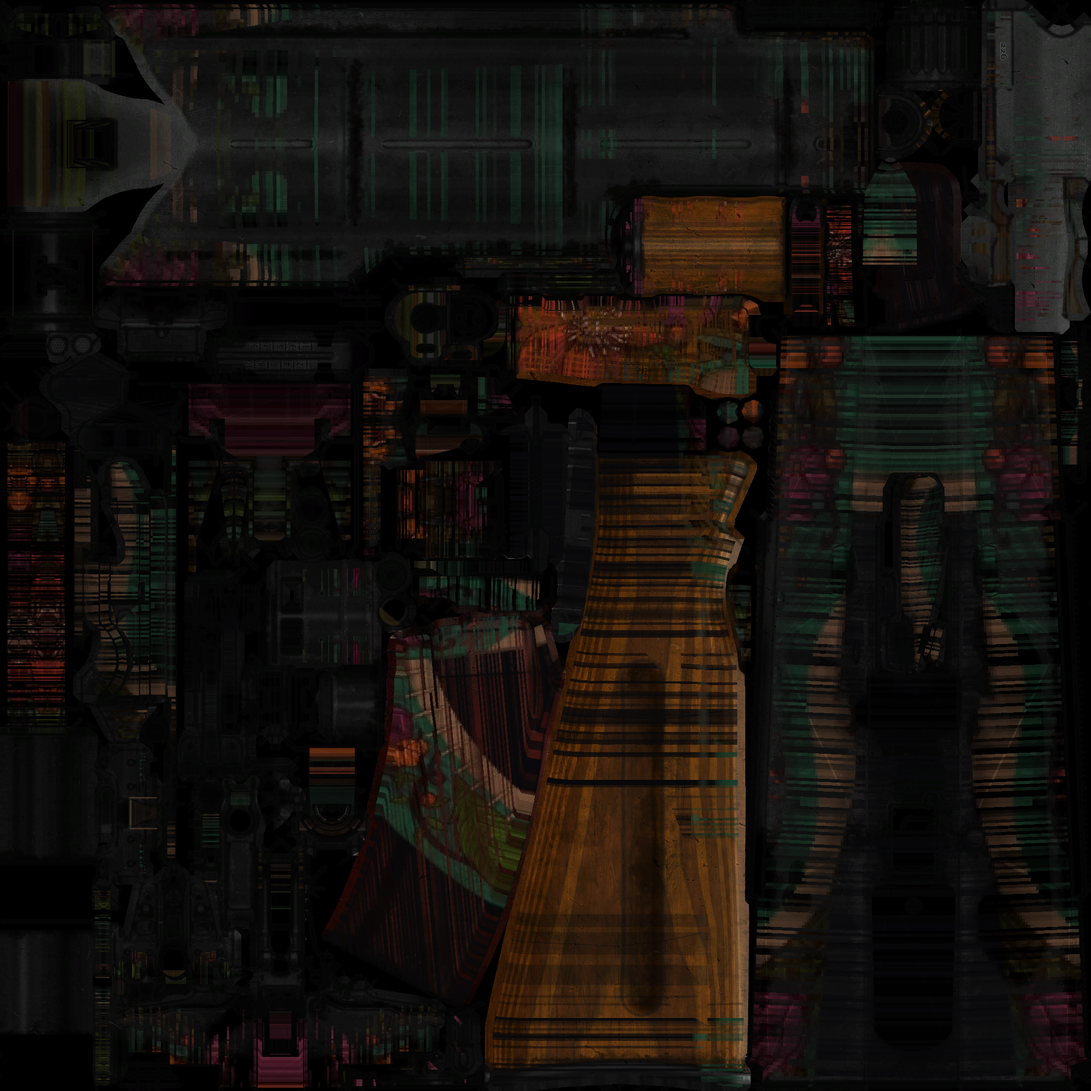
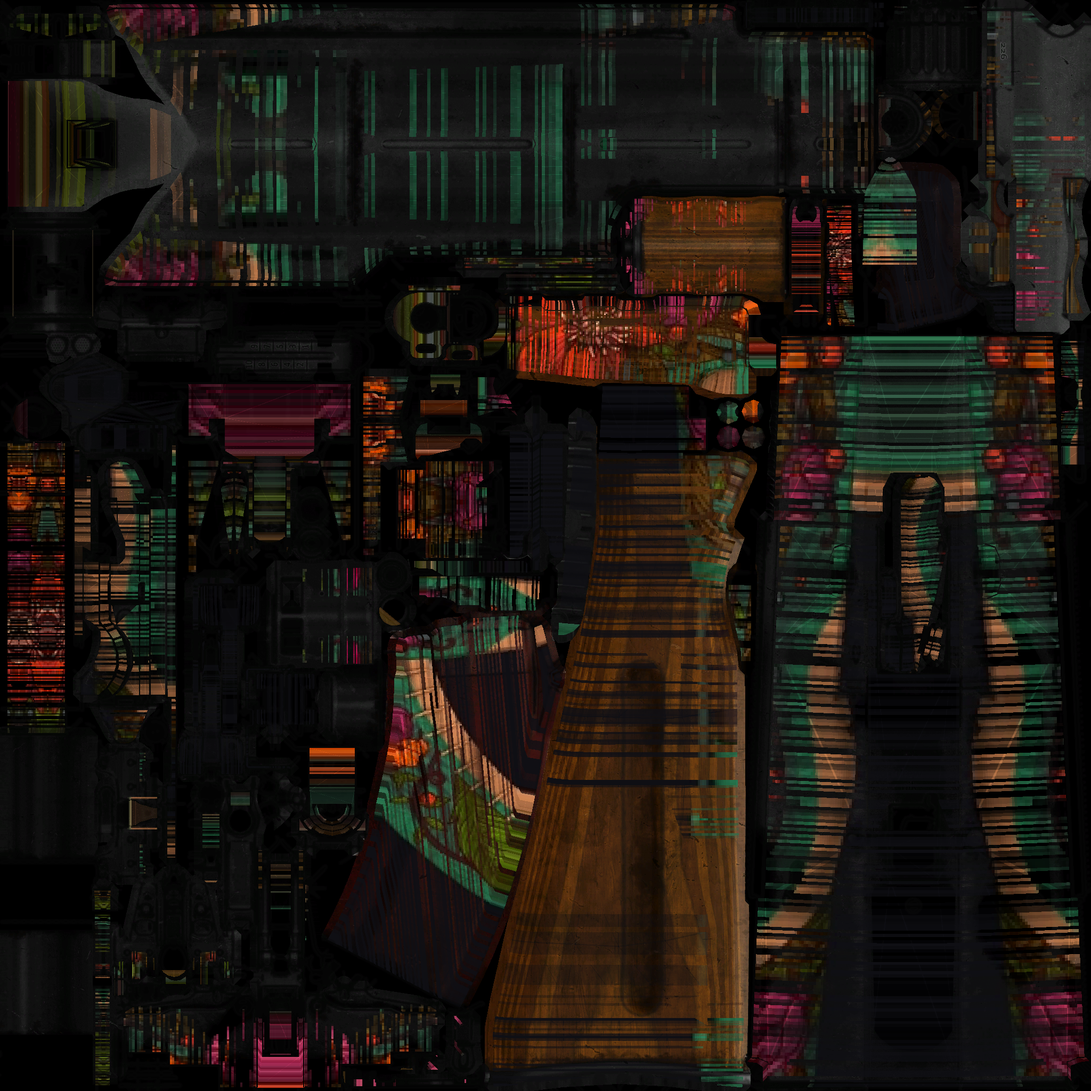
feat: hide bulky character arms, add symbolic gloves, boost lighting and bake ultra-vibrant Wild Lotus skin with sharp decals

diff --git a/js/fps-game.js b/js/fps-game.js
@@ -593,12 +593,16 @@
     camera = new THREE.PerspectiveCamera(75, width / height, 0.1, 100);
     camera.rotation.order = 'YXZ';
 
-    // Dedicated crisp lighting attached to camera for weapon viewmodel & skin brilliance
-    const vmDirLight = new THREE.DirectionalLight(0xffffff, 0.95);
+    // Dedicated crisp bright lighting attached to camera for weapon viewmodel & skin brilliance
+    const vmDirLight = new THREE.DirectionalLight(0xffffff, 1.35);
     vmDirLight.position.set(1.5, 2.2, 1.2);
     camera.add(vmDirLight);
 
-    const vmAmbientLight = new THREE.AmbientLight(0xffffff, 0.65);
+    const vmFillLight = new THREE.DirectionalLight(0xffffff, 0.7);
+    vmFillLight.position.set(-1.2, 0.6, 1.0);
+    camera.add(vmFillLight);
+
+    const vmAmbientLight = new THREE.AmbientLight(0xffffff, 0.85);
     camera.add(vmAmbientLight);
 
     renderer = new THREE.WebGLRenderer({ antialias: true, powerPreference: 'high-performance' });
@@ -607,7 +611,7 @@
     renderer.shadowMap.enabled = true;
     renderer.shadowMap.type = THREE.PCFSoftShadowMap;
     renderer.toneMapping = THREE.ACESFilmicToneMapping;
-    renderer.toneMappingExposure = 1.12;
+    renderer.toneMappingExposure = 1.22;
     renderer.outputEncoding = THREE.sRGBEncoding;
     container.appendChild(renderer.domElement);
 
@@ -1341,6 +1345,12 @@
         akRealGroup.setRotationFromEuler(new THREE.Euler(THREE.MathUtils.degToRad(5), THREE.MathUtils.degToRad(185), 0));
 
         akRealGroup.traverse((child) => {
+          if (child.name === 'SkeletalMeshComponent0') {
+            // User requested: "không cần quan tâm nhân vật hãy làm kỹ vào cái skin súng thôi nhân vật cho 2 cục tượng trưng là được"
+            // Hide bulky character arms so the screen is 100% focused on the AK-47 Wild Lotus skin!
+            child.visible = false;
+            return;
+          }
           if (child.isMesh || child.isSkinnedMesh) {
             child.castShadow = true;
             child.receiveShadow = true;
@@ -1350,14 +1360,49 @@
                 if (m.name === 'Material.002') {
                   akRealMaterial = m;
                   m.map = akBakedLotusTexture;
-                  m.roughness = 0.35;
-                  m.metalness = 0.28;
+                  m.roughness = 0.18; // Smooth satin finish to keep skin vibrant
+                  m.metalness = 0.08; // Low metalness so skin colors stay luminous and bright
                   m.needsUpdate = true;
                 }
               });
             }
           }
         });
+
+        // 2 symbolic compact glove blocks as requested ("nhân vật cho 2 cục tượng trưng là được")
+        const symbolicGloveMat = new THREE.MeshStandardMaterial({ color: 0x181a20, roughness: 0.8, metalness: 0.15 });
+        const gloveR = new THREE.Mesh(new THREE.BoxGeometry(0.5, 0.8, 0.65), symbolicGloveMat);
+        gloveR.position.set(-0.06, -0.65, 0.85);
+        gloveR.rotation.set(0.35, 0.05, -0.15);
+        akRealGroup.add(gloveR);
+
+        const gloveL = new THREE.Mesh(new THREE.BoxGeometry(0.45, 0.6, 0.85), symbolicGloveMat);
+        gloveL.position.set(-0.05, -0.35, 4.8);
+        gloveL.rotation.set(-0.15, -0.2, 0.25);
+        akRealGroup.add(gloveL);
+
+        // High-definition transparent skin decals on the real 3D AK-47 model for 100% razor-sharp clarity
+        const akSideDecalMat = new THREE.MeshBasicMaterial({
+          map: texLoader.load('assets/ak47_wild_lotus_vibrant.png'),
+          transparent: true,
+          opacity: 0.98,
+          alphaTest: 0.12,
+          side: THREE.DoubleSide,
+          depthWrite: false
+        });
+
+        // Left face decal (faces player camera directly in 1st person)
+        const akSideDecalL = new THREE.Mesh(new THREE.PlaneGeometry(8.188, 2.247), akSideDecalMat);
+        akSideDecalL.rotation.y = -Math.PI / 2;
+        akSideDecalL.position.set(-0.355, -0.328, 3.499);
+        akRealGroup.add(akSideDecalL);
+
+        // Right face decal (for inspect turnaround)
+        const akSideDecalR = new THREE.Mesh(new THREE.PlaneGeometry(8.188, 2.247), akSideDecalMat);
+        akSideDecalR.rotation.y = Math.PI / 2;
+        akSideDecalR.scale.x = -1;
+        akSideDecalR.position.set(0.245, -0.328, 3.499);
+        akRealGroup.add(akSideDecalR);
 
         viewmodelRig.add(akRealGroup);
 

diff --git a/test_vm.html b/test_vm.html
@@ -58,20 +58,49 @@
       model.setRotationFromEuler(new THREE.Euler(THREE.MathUtils.degToRad(5), THREE.MathUtils.degToRad(185), 0));
 
       model.traverse((child) => {
+        if (child.name === 'SkeletalMeshComponent0') {
+          child.visible = false;
+          return;
+        }
         if (child.isMesh || child.isSkinnedMesh) {
           if (child.material) {
             const mats = Array.isArray(child.material) ? child.material : [child.material];
             mats.forEach(m => {
               if (m.name === 'Material.002') {
                 m.map = lotusTex;
-                m.roughness = 0.35;
-                m.metalness = 0.25;
+                m.roughness = 0.18;
+                m.metalness = 0.08;
                 m.needsUpdate = true;
               }
             });
           }
         }
       });
+
+      // 2 symbolic compact glove blocks
+      const symbolicGloveMat = new THREE.MeshStandardMaterial({ color: 0x181a20, roughness: 0.8, metalness: 0.15 });
+      const gloveR = new THREE.Mesh(new THREE.BoxGeometry(0.5, 0.8, 0.65), symbolicGloveMat);
+      gloveR.position.set(-0.06, -0.65, 0.85);
+      gloveR.rotation.set(0.35, 0.05, -0.15);
+      model.add(gloveR);
+
+      const gloveL = new THREE.Mesh(new THREE.BoxGeometry(0.45, 0.6, 0.85), symbolicGloveMat);
+      gloveL.position.set(-0.05, -0.35, 4.8);
+      gloveL.rotation.set(-0.15, -0.2, 0.25);
+      model.add(gloveL);
+
+      const akSideDecalMat = new THREE.MeshBasicMaterial({
+        map: texLoader.load('assets/ak47_wild_lotus_vibrant.png'),
+        transparent: true,
+        opacity: 0.98,
+        alphaTest: 0.12,
+        side: THREE.DoubleSide,
+        depthWrite: false
+      });
+      const akSideDecalL = new THREE.Mesh(new THREE.PlaneGeometry(8.188, 2.247), akSideDecalMat);
+      akSideDecalL.rotation.y = -Math.PI / 2;
+      akSideDecalL.position.set(-0.355, -0.328, 3.499);
+      model.add(akSideDecalL);
 
       camera.add(model);
 
